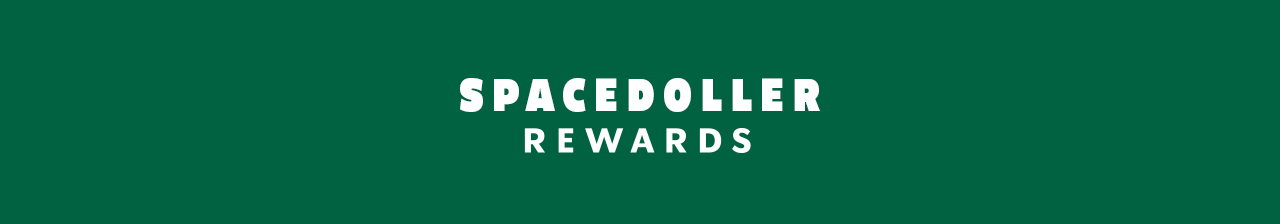
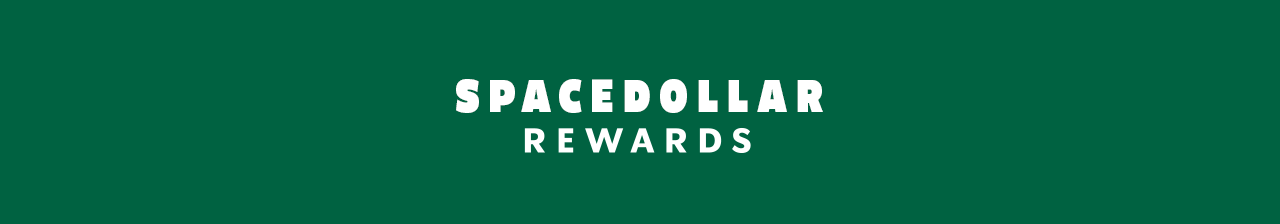
adds header, hero, and offer header

Changed region(s): [[0.3438, 0.3438, 0.6562, 0.5]]

diff --git a/email-5.html b/email-5.html
@@ -42,15 +42,11 @@
 
                 <!-- Start of header row -->
                 <tr>
-                    <td>
+                    <td bgcolor="#006241" align="center" valign="middle" style="font-size:22px;background-color: #006241;">
                         
-                        <table>
-                            <tr>
-                                <td>
-
-                                </td>
-                            </tr>
-                        </table>
+                        <a href="https://www.starbucks.com/" style="text-decoration: none;" target="_blank">
+                            <img src="../email-5/images/headerBanner.png" width="640" height="112" style="display: block;border: 0;font-family:'SoDo Sans SemiBold',Avenir,'Roboto',Helvetica,Arial,sans-serif;color: #ffffff;text-align: center;text-transform: uppercase;font-weight: bold;font-size: 22px;width: 640px;height: 112px;padding: 0;margin: 0;" alt="SPACEDOLLAR REWARDS" title="SPACEDOLLAR REWARDS">
+                        </a>
                         
                     </td>
                 </tr>
@@ -58,15 +54,9 @@
 
                 <!-- Start of animation row -->
                 <tr>
-                    <td>
+                    <td bgcolor="1e3932" align="center" style="padding: 0px;margin: 0px;">
                         
-                        <table>
-                            <tr>
-                                <td>
-
-                                </td>
-                            </tr>
-                        </table>
+                        <img src="../email-5/images/animatedHero.gif" alt="Holiday ThursYays animated main image on a dark green background with autumn leaves falling decoratively aroundd two coffee drinks." width="640" height="578" style="border:0;display:block;font-family:'SoDo Sans SemiBold',Avenir,'Roboto',Helvetica,Arial,sans-serif;color: #ffffff;text-align: center;text-transform: uppercase;font-weight: bold;font-size: 22px;width: 640px;height: 578px;padding: 0;margin: 0;">
                         
                     </td>
                 </tr>
@@ -74,12 +64,14 @@
 
                 <!-- Start of offer header row -->
                 <tr>
-                    <td>
+                    <td bgcolor="1e3932">
                         
-                        <table>
+                        <table width="640" align="center" border="0" cellspacing="0" cellpadding="0" style="max-width: 640px;" bgcolor="1e3932">
                             <tr>
-                                <td>
-
+                                <td align="center" valign="middle" style="font-family:'SoDo Sans SemiBold',Avenir,'Roboto',Helvetica,Arial,sans-serif;font-size:50px;text-align:center;color:#ffffff;font-weight:800;padding:18px 0;">
+                                    BUY ONE FALL DRINK,
+                                    <br>
+                                    GET ONE FREE
                                 </td>
                             </tr>
                         </table>
